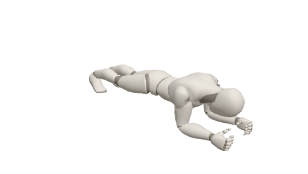
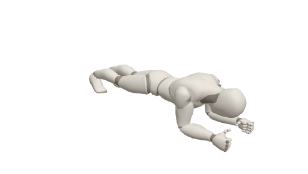
El puño de la plancha sí se podía: medí en el sitio equivocado
Dije que era imposible tras probar `cierre` 1.7 y ver que la punta del
índice se ALEJABA de la muñeca. La conclusión estaba mal: barriendo el
valor de 0 a 2.5 y midiendo, sale que hay un óptimo y que 1.7 cae justo
pasado.

  cierre 1.0 → 14,2 cm  (medio cerrada, es el agarre de barra)
  cierre 1.55 → 9,9 cm  (puño)
  cierre 1.7 → 15,4 cm  (la punta sale por debajo de la palma)
  cierre 2.0 → 14,1 cm

La plancha pasa a 1.55 y ahora cierra el puño, que es lo que se pidió hace
días. No hace falta tocar `CURVA_DEDOS` ni nada del motor, así que los
otros 49 ejercicios no se enteran: es un número en un JSON.

Queda documentado en `CURVA_DEDOS`, porque el fallo fue de método y no de
código: el 1 no es el tope, es el agarre de barra —165° repartidos en tres
falanges— y un puño pide cerca de 260. Y la distancia no crece con el
número, así que se mide en vez de subirlo a ojo.

Claude-Session: https://claude.ai/code/session_01XMvXWrcLVocq7tcBrDXEzd

diff --git a/src/figura/cinematica.js b/src/figura/cinematica.js
@@ -749,6 +749,14 @@ function posarPierna(esq, pose, l, Fpelvis, anotar, avisos) {
  * Un ángulo igual en las tres falanges da un puño, no un agarre: la mano cerrada sobre una barra
  * dobla mucho los nudillos y la falange media, y poco la punta. El pulgar va aparte y menos, porque
  * se opone al resto en lugar de curvarse con ellos.
+ *
+ * EL 1 NO ES EL TOPE: ES EL AGARRE. Estos 165° repartidos entre las tres falanges son los que hacen
+ * falta para rodear una barra; un puño de verdad pide cerca de 260. Para cerrar el puño —la
+ * plancha— el `cierre` va por encima de 1, y ahí hay un óptimo MEDIDO con la punta del índice
+ * contra la muñeca: 1.55 da un puño de 9,9 cm, y a partir de 1.8 el dedo se enrolla de más, la
+ * punta sale por debajo de la palma y vuelve a alejarse —1.7 mide 15,4 cm, peor que no cerrar—.
+ * La distancia no crece con el número, así que se mide en vez de subirlo a ojo: probando 1.7 se
+ * concluyó que el puño era imposible, y lo que pasaba es que estaba justo pasado el punto bueno.
  */
 const CURVA_DEDOS = { falange: [55, 70, 40], pulgar: [20, 24, 16] };
 
